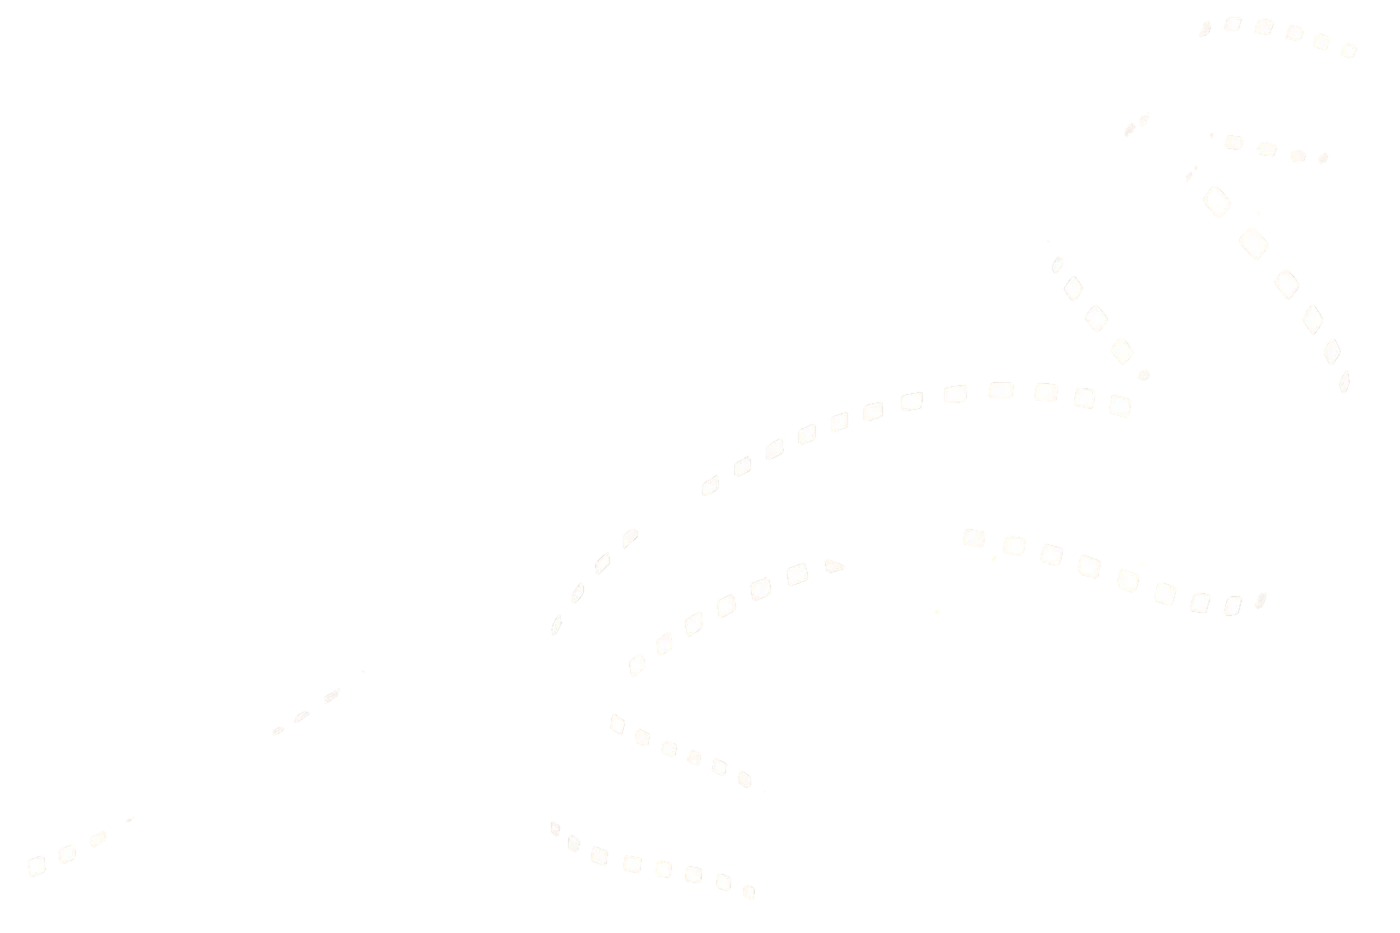
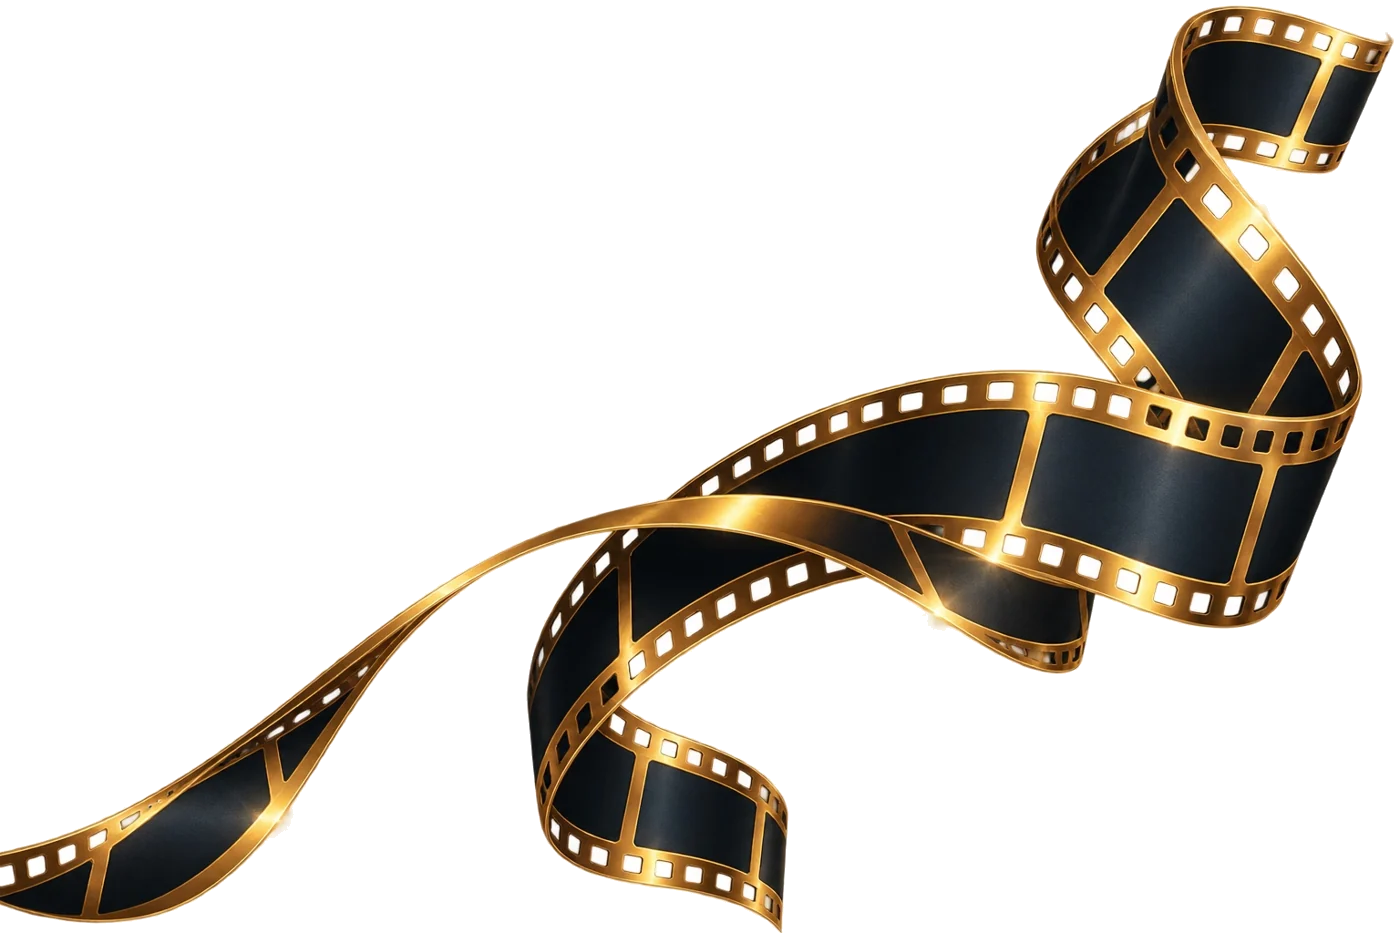
Add files via upload

Changed region(s): [[0.3686, 0.0, 1.0, 1.0], [0.0, 0.5906, 0.3686, 0.9946]]

diff --git a/index.html b/index.html
@@ -1,19 +1,42 @@
-<!doctype html><html lang="es"><head><meta charset="utf-8"><meta name="viewport" content="width=device-width,initial-scale=1"><title>AZAIRUS 2026 · Una noche de película</title><style>
-:root{--blue:#0b1929;--gold:#c99c49;--cream:#f7eddb}*{box-sizing:border-box}body{margin:0;background:var(--blue);font-family:Georgia,serif;color:var(--cream);text-align:center}main{max-width:680px;margin:auto;box-shadow:0 0 50px #0006}section{position:relative;overflow:hidden;padding:75px 25px;min-height:540px;background:var(--blue)}section.cream{background:radial-gradient(ellipse,#fff8e9,#ecddbd);color:var(--blue)}.ornament{width:80%;max-width:360px;display:block;margin:20px auto}.ribbon{position:absolute;width:220px;right:-90px;top:-50px;transform:rotate(25deg);pointer-events:none}.ribbon.bottom{top:auto;bottom:-70px;right:auto;left:-85px;transform:rotate(-20deg)}h1,h2{font-weight:normal;letter-spacing:.07em;margin:15px auto}h1{font-size:clamp(36px,8vw,62px)}h2{font-size:clamp(32px,7vw,52px)}.script{font-style:italic;font-size:clamp(38px,9vw,72px);color:var(--gold);letter-spacing:-.04em;margin:4px auto 15px}.kicker{font-size:13px;letter-spacing:.28em;text-transform:uppercase;color:var(--gold)}p{line-height:1.7;font-size:17px;max-width:440px;margin:18px auto}.gold{color:var(--gold)}.line{height:1px;width:65%;background:linear-gradient(90deg,transparent,var(--gold),transparent);margin:24px auto}.btn{display:inline-block;margin:20px auto;padding:15px 25px;border-radius:28px;background:var(--gold);color:var(--blue);font:600 13px Arial,sans-serif;letter-spacing:.09em;text-decoration:none}.cream .btn{background:var(--blue);color:var(--cream)}.photo{width:90%;max-width:370px;height:auto;display:block;margin:25px auto}.star{font-size:30px;color:var(--gold)}.small{font-size:13px}.info{background:#f3e4c8;color:var(--blue);border:2px solid var(--gold);padding:20px;max-width:440px;margin:25px auto}.info p{font-size:15px}.count{display:grid;grid-template-columns:repeat(4,1fr);gap:6px;max-width:440px;margin:30px auto}.count div{border:1px solid var(--gold);padding:15px 3px}.count strong{font-size:clamp(25px,7vw,42px);display:block}.count small{font:11px Arial,sans-serif}.music{position:fixed;right:15px;bottom:15px;border:1px solid var(--gold);background:var(--blue);color:var(--cream);border-radius:30px;padding:13px;font-size:12px;z-index:5}footer{padding:30px;font-size:12px;color:var(--gold)}
-</style></head><body><main>
-<section><img class="ribbon" src="assets/cinta.png" alt=""><p class="kicker">Kairos 2027 presenta</p><img class="photo" src="assets/sobre.png" alt="Invitación de gala"><div class="star">✦</div><h1>Una noche de película</h1><p>Una última escena. Un recuerdo para siempre.</p><p class="gold">21 · 11 · 2026 &nbsp; | &nbsp; 6:00 P. M.</p><p>Salón de actos · Colegio Nuestra Señora de Bethlem</p></section>
-<section class="cream"><img class="ribbon bottom" src="assets/cinta.png" alt=""><p class="kicker">Esta vez ustedes son los protagonistas</p><h2>Toda gran historia merece un buen final</h2><div class="line"></div><p><b>KAIROS 2027</b> tiene el honor de invitar a <b>AZAIRUS 2026</b> al cierre de una etapa que siempre recordarán.</p><div class="star">✦ ✧ ✦</div></section>
-<section class="cream"><p class="kicker">Acceso exclusivo</p><h2>Tu entrada</h2><div class="script">al estreno</div><div class="line"></div><p>El final de una gran historia está por comenzar. Prepárate para una noche llena de recuerdos, elegancia y momentos inolvidables.</p><a class="btn" href="https://canva.link/yrpid3lwp5zv61x" target="_blank" rel="noopener noreferrer">VER MI ENTRADA ↗</a><img class="ribbon bottom" src="assets/cinta.png" alt=""></section>
-<section><p class="kicker">Una noche para brillar</p><img class="photo" src="assets/alfombra.png" alt="Alfombra roja de gala"><h2>DRESS LIKE</h2><div class="script">a Star</div><div class="line"></div><p>El estilo de Hollywood antiguo cobra vida una vez más. Vístete para tu última gran función y sé parte de la alfombra roja que KAIROS 2027 le tiene preparada a AZAIRUS 2026.</p><a class="btn" href="https://canva.link/937kzkd6kw4zmdm" target="_blank" rel="noopener noreferrer">DESCUBRE EL DRESS CODE ↗</a></section>
-<section><img class="ribbon" src="assets/cinta.png" alt=""><p class="kicker">Te esperamos en el escenario final</p><h2>UBICACIÓN</h2><div class="line"></div><img class="photo" src="assets/cine.png" alt="Cine decorado para AZAIRUS 2026"><p>Colegio Nuestra Señora de Bethlem<br>Salón de actos · 6:00 P. M.</p><a class="btn" href="https://www.google.com/maps/place/Colegio+Nuestra+Se%C3%B1ora+de+Bethlem/@9.1005841,-79.5482024,17z/data=!3m1!4b1!4m6!3m5!1s0x8fab5769109e78c7:0x3eb9ec064f048892!8m2!3d9.1005788!4d-79.5456275!16s%2Fg%2F1w0sdy8h?entry=ttu" target="_blank" rel="noopener noreferrer">VER MAPA ↗</a></section>
-<section class="cream"><p class="kicker">Antes de comenzar la función</p><h2>INDICACIONES IMPORTANTES</h2><div class="info"><p><b>✦ NO ACOMPAÑANTES</b><br>Evento exclusivo para AZAIRUS 2026.</p><p><b>✦ LLEGADA PUNTUAL</b><br>Te esperamos a la hora indicada.</p><p><b>✦ MOMENTOS ESPECIALES</b><br>Habrá cobertura fotográfica y de video.</p><p><b>✦ DISFRUTA LA NOCHE</b><br>Ven con la mejor actitud y forma parte de este gran final.</p></div></section>
-<section class="cream"><img class="ribbon bottom" src="assets/cinta.png" alt=""><p class="kicker">Every great story deserves a</p><div class="script">Grand Finale</div><div class="line"></div><p>GRACIAS POR SER PARTE DE ESTA HISTORIA</p><div class="count"><div><strong id="d">--</strong><small>DÍAS</small></div><div><strong id="h">--</strong><small>HORAS</small></div><div><strong id="m">--</strong><small>MIN</small></div><div><strong id="s">--</strong><small>SEG</small></div></div><p>Una última noche. Miles de recuerdos.</p><p><b>KAIROS 2027 × AZAIRUS 2026</b></p></section>
-<footer>✦ TODA GRAN HISTORIA MERECE UN BUEN FINAL ✦</footer></main><button class="music" id="musicButton" type="button" aria-label="Activar música instrumental">♫ Activar música</button>
-<script>function updateCountdown(){const target=Date.parse('2026-11-21T18:00:00-05:00');let n=Math.max(0,Math.floor((target-Date.now())/1000));const d=Math.floor(n/86400);n%=86400;const h=Math.floor(n/3600);n%=3600;const m=Math.floor(n/60);const s=n%60;for(const [id,v] of [['d',d],['h',h],['m',m],['s',s]])document.getElementById(id).textContent=String(v).padStart(2,'0')}updateCountdown();setInterval(updateCountdown,1000);</script>
+<!doctype html><html lang="es"><head><meta charset="utf-8"><meta name="viewport" content="width=device-width,initial-scale=1"><meta name="theme-color" content="#0b1929"><meta name="description" content="KAIROS 2027 invita a AZAIRUS 2026 a una noche de película. 21 de noviembre, 6:00 p. m."><title>Una noche de película · AZAIRUS 2026</title><link rel="preconnect" href="https://fonts.googleapis.com"><link rel="preconnect" href="https://fonts.gstatic.com" crossorigin><link href="https://fonts.googleapis.com/css2?family=Cormorant+Garamond:wght@400;500;600;700&family=Great+Vibes&family=Montserrat:wght@400;500;600;700&display=swap" rel="stylesheet"><style>
+:root{--navy:#0b1929;--gold:#d9b56a;--cream:#f5e8d0}*{box-sizing:border-box}html{scroll-behavior:smooth}body{margin:0;background:var(--navy);color:var(--cream);font-family:Montserrat,Arial,sans-serif;overflow-x:hidden}body:before{content:"";position:fixed;inset:0;pointer-events:none;background:radial-gradient(ellipse at 50% 0%,#24406677,transparent 65%);z-index:-1}.container{max-width:520px;margin:auto;padding:0 22px}.hero{min-height:100svh;display:flex;flex-direction:column;justify-content:center;align-items:center;position:relative;background:linear-gradient(180deg,#0b1929,#172941 60%,#0b1929);padding:22px 18px 44px}.eyebrow{font-size:10px;letter-spacing:.32em;color:var(--gold);text-transform:uppercase;text-align:center}.hero img{width:min(100%,440px);max-height:72svh;object-fit:contain;filter:drop-shadow(0 14px 30px #0007);animation:appear 1.6s ease both}.hero .eyebrow{margin-bottom:15px}.scrollhint{font-size:10px;letter-spacing:.18em;text-transform:uppercase;color:#decda8;text-align:center;animation:bob 2s infinite}.section{position:relative;min-height:74svh;display:flex;flex-direction:column;align-items:center;justify-content:center;text-align:center;padding:76px 22px;overflow:hidden}.section:nth-of-type(2n){background:linear-gradient(145deg,#0c1b2d,#152943,#0c1b2d)}.section .inner{max-width:480px;width:100%;position:relative;z-index:2}.kicker{font-size:10px;letter-spacing:.32em;color:var(--gold);text-transform:uppercase;margin:12px 0 20px}h1,h2,h3{font-family:'Cormorant Garamond',Georgia,serif;font-weight:500;margin:0}h1{font-size:clamp(43px,11vw,74px);line-height:.98}h2{font-size:clamp(39px,10vw,62px);line-height:1.03}h3{font-size:33px}p{font-size:13px;line-height:1.95;color:#e8dcca}.gold{color:var(--gold)}.script{font-family:'Great Vibes',cursive;font-size:clamp(48px,12vw,75px);color:#e6c27b;line-height:1.15}.rule{display:flex;align-items:center;gap:12px;color:var(--gold);justify-content:center;margin:22px auto;width:80%}.rule:before,.rule:after{content:"";height:1px;background:linear-gradient(90deg,transparent,#e4bc70);flex:1}.rule:after{transform:rotate(180deg)}.btn{display:inline-block;cursor:pointer;text-decoration:none;background:linear-gradient(135deg,#f3db9a,#c39a4e,#f3db9a);color:#0b1929;padding:17px 24px;border-radius:3px;border:1px solid #f7df9d;font-size:11px;font-weight:700;letter-spacing:.12em;text-transform:uppercase;box-shadow:0 6px 25px #0004;margin:16px auto;transition:transform .25s}.btn:hover{transform:translateY(-3px)}.btn.secondary{background:transparent;color:#e6c27b;border:1px solid #b89559}.date{display:flex;gap:16px;justify-content:center;align-items:center;margin:27px auto}.date .day{font-family:'Cormorant Garamond',serif;font-size:84px;line-height:1;color:#ebce90}.date .details{text-align:left;font-size:12px;line-height:2;text-transform:uppercase;letter-spacing:.16em}.photo{width:100%;max-width:370px;object-fit:contain;display:block;margin:18px auto;filter:drop-shadow(0 8px 18px #0005)}.photo.cinema{max-width:300px}.dec{position:absolute;pointer-events:none;opacity:.65;max-width:180px}.dec.right{right:-85px;top:5%;width:210px}.dec.left{left:-85px;bottom:5%;width:170px;transform:scaleX(-1)}.fade{opacity:0;transform:translateY(32px);transition:opacity .9s ease,transform .9s ease}.fade.visible{opacity:1;transform:translateY(0)}.card{border:1px solid #b9976077;background:#f2e2c6;color:#16233a;padding:32px 24px;box-shadow:0 18px 40px #0005}.card p{color:#17253b}.card h2{color:#0b1929}.info{display:grid;gap:17px;text-align:left;margin:28px auto;max-width:350px}.info-item{border-bottom:1px solid #b9976055;padding-bottom:14px}.info-item strong{display:block;color:#14213b;font-family:'Cormorant Garamond',serif;font-size:24px}.info-item span{font-size:12px;line-height:1.7;display:block;color:#29364b}.countdown{display:grid;grid-template-columns:repeat(4,1fr);gap:7px;margin:26px auto}.countdown div{border:1px solid #c4a26666;padding:14px 2px;background:#ffffff08}.countdown strong{display:block;font-family:'Cormorant Garamond',serif;font-size:35px;color:#f2d18d}.countdown span{font-size:9px;letter-spacing:.09em;text-transform:uppercase;color:#d8c7a7}.footer{font-size:10px;letter-spacing:.14em;color:#d0b67c;padding:24px;text-align:center}.music{position:fixed;bottom:18px;right:16px;z-index:20;border:1px solid #d8b56b;background:#10253de8;color:#f4d89e;padding:12px;border-radius:50%;font-size:19px;cursor:pointer}.hero .tap{border:1px solid #caa65d;background:#12253dbb;color:#f4d89e;border-radius:30px;padding:12px 18px;letter-spacing:.12em;font-size:10px;cursor:pointer}.intro{position:fixed;inset:0;z-index:50;background:#0b1929;display:flex;align-items:center;justify-content:center;flex-direction:column;padding:20px;transition:opacity .8s,visibility .8s}.intro.hidden{opacity:0;visibility:hidden}.intro img{width:min(86vw,360px);max-height:68vh;object-fit:contain;animation:appear 1.3s both}.intro p{color:#d4b575;text-transform:uppercase;letter-spacing:.2em;font-size:10px}.intro button{margin-top:10px}.star{color:#d4ae67;font-size:22px}.note{font-size:11px;color:#bba986}.orn{width:120px;max-width:35%;opacity:.9;margin:20px auto}.mini{width:100%;max-width:370px;max-height:170px;object-fit:contain;margin:20px auto}.dressimg{max-width:330px;width:100%;mix-blend-mode:screen;filter:contrast(1.1)}@keyframes appear{from{opacity:0;transform:scale(.94) translateY(16px)}to{opacity:1;transform:scale(1) translateY(0)}}@keyframes bob{50%{transform:translateY(8px)}}@media(prefers-reduced-motion:reduce){.fade{opacity:1;transform:none}.hero img,.scrollhint,.intro img{animation:none}html{scroll-behavior:auto}}@media(max-width:390px){.section{padding:65px 17px}.date .day{font-size:65px}.date{gap:10px}.countdown strong{font-size:29px}}
+
+/* Details tailored to the original navy / antique gold artwork */
+.hero{background:linear-gradient(180deg,#0b1929,#162942 65%,#0b1929)}
+.hero img{max-height:79svh;width:min(94vw,490px)}
+.intro img{max-height:74vh;width:min(90vw,390px)}
+.section{border-top:1px solid #caa45b28}
+.section .inner{z-index:3}
+.section:after{content:'✧';position:absolute;right:9%;top:12%;font-size:30px;color:#e5bc6e;opacity:.7;animation:twinkle 3s ease-in-out infinite;pointer-events:none}
+.deco-edge{position:absolute;pointer-events:none;z-index:1;width:min(90%,480px);max-height:210px;object-fit:contain;opacity:.8}
+.deco-top{top:-65px;left:-13%;transform:rotate(-8deg)}
+.deco-bottom{bottom:-75px;right:-24%;transform:rotate(8deg)}
+.polaroid-small{width:clamp(135px,42vw,215px);max-height:175px;object-fit:contain;display:block;margin:0 auto 12px;transform:rotate(-6deg);filter:drop-shadow(0 9px 12px #0009)}
+.music{display:flex;align-items:center;gap:7px;border-radius:28px;font-size:17px;bottom:15px;right:12px;padding:11px 14px}
+.music span{font-size:10px;letter-spacing:.04em}
+@keyframes twinkle{50%{opacity:.15;transform:scale(.72)}}
+</style></head><body>
+<div class="intro" id="intro"><p>Una invitación especial para</p><img src="assets/portada_original.jpg" alt="Sobre con invitación de AZAIRUS 2026"><button class="tap" id="openInvite">✦ &nbsp; ABRIR INVITACIÓN &nbsp; ✦</button></div>
+<header class="hero"><div class="eyebrow">KAIROS 2027 · TIENE EL HONOR DE INVITAR</div><img src="assets/portada_original.jpg" alt="Invitación de despedida de AZAIRUS 2026"><div class="scrollhint">Desliza para descubrir<br>⌄</div></header>
+<main>
+<section class="section"><img class="deco-edge deco-top" src="assets/arco.png" alt=""><img class="dec right" src="assets/lateral.png" alt=""><div class="inner fade"><div class="kicker">Una noche de película</div><img class="polaroid-small" src="assets/polaroid.png" alt="Fotografía de recuerdos de AZAIRUS 2026"><h2>Toda gran historia<br><em class="gold">merece un buen final</em></h2><div class="rule">✦</div><p>Hay historias que merecen una despedida inolvidable. Esta vez, ustedes son los protagonistas de una última gran función.</p><div class="script">AZAIRUS 2026</div><p>Con cariño, <strong>KAIROS 2027</strong></p></div></section>
+<section class="section"><img class="deco-edge deco-top" src="assets/cinta.png" alt=""><div class="inner fade"><div class="kicker">La función está por comenzar</div><img class="photo cinema" src="assets/cine.webp" alt="Fachada de cine AZAIRUS 2026"><h2>Una noche para <em class="gold">brillar</em></h2><div class="date"><div class="day">21</div><div class="details">Noviembre 2026<br>Sábado<br>6:00 p. m.</div></div><p>Una velada para celebrar los recuerdos, las amistades y todo lo que está por venir.</p></div></section>
+<section class="section"><img class="deco-edge deco-bottom" src="assets/decoracion.png" alt=""><img class="dec left" src="assets/lateral.png" alt=""><div class="inner fade"><div class="kicker">Acceso exclusivo</div><h2>Tu entrada</h2><div class="script">al estreno</div><div class="rule">✦</div><p>El final de una gran historia está por comenzar. Prepárate para una noche llena de recuerdos, elegancia y momentos inolvidables.</p><a class="btn" href="https://canva.link/yrpid3lwp5zv61x" target="_blank" rel="noopener noreferrer">✦ Ver mi entrada</a><p class="note">Se abrirá tu entrada digital en Canva</p></div></section>
+<section class="section"><img class="deco-edge deco-top" src="assets/arco.png" alt=""><div class="inner fade"><div class="kicker">La alfombra roja te espera</div><img class="photo" src="assets/alfombra.webp" alt="Alfombra roja y entrada cinematográfica"><h2>Dress like</h2><div class="script">a Star</div><div class="rule">✦</div><p>El estilo de Hollywood antiguo cobra vida una vez más. Vístete para tu última gran función y sé parte de la alfombra roja que KAIROS 2027 le tiene preparada a AZAIRUS 2026.</p><a class="btn" href="https://canva.link/937kzkd6kw4zmdm" target="_blank" rel="noopener noreferrer">✦ Descubre el dress code</a></div></section>
+<section class="section"><img class="deco-edge deco-bottom" src="assets/cinta.png" alt=""><div class="inner fade"><div class="kicker">El escenario final</div><h2>Ubicación</h2><div class="rule">✦</div><p>Te esperamos en el escenario final</p><div class="card"><div class="star">✦</div><h3>Colegio Nuestra Señora de Bethlem</h3><p>21 de noviembre de 2026<br><strong>6:00 p. m.</strong></p><a class="btn" href="https://www.google.com/maps/place/Colegio+Nuestra+Se%C3%B1ora+de+Bethlem/@9.1005841,-79.5482024,17z/data=!3m1!4b1!4m6!3m5!1s0x8fab5769109e78c7:0x3eb9ec064f048892!8m2!3d9.1005788!4d-79.5456275!16s%2Fg%2F1w0sdy8h?entry=ttu" target="_blank" rel="noopener noreferrer">Ver ubicación en Maps ↗</a></div></div></section>
+<section class="section"><img class="deco-edge deco-top" src="assets/arco.png" alt=""><div class="inner fade"><div class="kicker">Antes del estreno</div><h2>Indicaciones <em class="gold">importantes</em></h2><div class="rule">✦</div><div class="card"><div class="info"><div class="info-item"><strong>01 · No acompañantes</strong><span>Evento exclusivo para AZAIRUS 2026.</span></div><div class="info-item"><strong>02 · Llegada puntual</strong><span>Te esperamos a la hora indicada para disfrutar de una noche inolvidable.</span></div><div class="info-item"><strong>03 · Momentos especiales</strong><span>Habrá cobertura fotográfica y de video durante el evento.</span></div><div class="info-item"><strong>04 · Disfruta la noche</strong><span>Ven con la mejor actitud y forma parte de este gran final.</span></div></div></div></div></section>
+<section class="section"><img class="deco-edge deco-bottom" src="assets/decoracion.png" alt=""><div class="inner fade"><div class="kicker">El gran estreno se acerca</div><h2>La cuenta regresiva</h2><div class="rule">✦</div><div class="countdown"><div><strong id="days">--</strong><span>Días</span></div><div><strong id="hours">--</strong><span>Horas</span></div><div><strong id="minutes">--</strong><span>Minutos</span></div><div><strong id="seconds">--</strong><span>Segundos</span></div></div><p>Una última noche. Miles de recuerdos.<br>Una historia que siempre será nuestra.</p><div class="script">Esta vez ustedes son<br>los protagonistas.</div><p class="gold">KAIROS 2027 × AZAIRUS 2026</p></div></section>
+</main><footer class="footer">✦ &nbsp; TODA GRAN HISTORIA MERECE UN BUEN FINAL &nbsp; ✦</footer>
+<button class="music" id="musicButton" type="button" aria-label="Activar música instrumental" title="Activar o detener música">♫ <span id="musicLabel">Música</span></button>
 <script>
-// Melodía instrumental sencilla, sintetizada localmente; no descarga audio.
-let musicContext=null, musicTimer=null, musicIndex=0;
-const melody=[392,440,523.25,440,392,329.63,349.23,392,329.63,293.66,329.63,392,349.23,329.63,293.66,261.63];
-function playNote(){if(!musicContext)return;const osc=musicContext.createOscillator();const gain=musicContext.createGain();osc.type='sine';osc.frequency.value=melody[musicIndex++%melody.length];gain.gain.setValueAtTime(0.0001,musicContext.currentTime);gain.gain.exponentialRampToValueAtTime(0.045,musicContext.currentTime+0.04);gain.gain.exponentialRampToValueAtTime(0.0001,musicContext.currentTime+0.47);osc.connect(gain);gain.connect(musicContext.destination);osc.start();osc.stop(musicContext.currentTime+0.5)}
-document.getElementById('musicButton').addEventListener('click',async function(){if(musicTimer){clearInterval(musicTimer);musicTimer=null;this.textContent='♫ Activar música';return;}const AudioContextClass=window.AudioContext||window.webkitAudioContext;if(!AudioContextClass){this.textContent='Música no disponible';return;}musicContext=musicContext||new AudioContextClass();await musicContext.resume();playNote();musicTimer=setInterval(playNote,560);this.textContent='♫ Pausar música';});
+document.getElementById('openInvite').addEventListener('click',()=>{document.getElementById('intro').classList.add('hidden');window.scrollTo({top:0,behavior:'instant'})});
+const observer=new IntersectionObserver((entries)=>{entries.forEach(e=>{if(e.isIntersecting){e.target.classList.add('visible');observer.unobserve(e.target)}})},{threshold:.12});document.querySelectorAll('.fade').forEach(el=>observer.observe(el));
+const target=new Date('2026-11-21T18:00:00-05:00').getTime();function tick(){let diff=Math.max(0,target-Date.now());const values=[Math.floor(diff/86400000),Math.floor(diff/3600000)%24,Math.floor(diff/60000)%60,Math.floor(diff/1000)%60];['days','hours','minutes','seconds'].forEach((id,i)=>document.getElementById(id).textContent=String(values[i]).padStart(2,'0'))}tick();setInterval(tick,1000);
+
+// Short, original synthesized cinematic instrumental; starts only after a tap.
+let audioCtx=null, playing=false, musicTimer=null, notesPlayed=0;
+const melody=[0,4,7,12,7,4,2,5,9,12,9,5,0,4,7,11,7,4,-2,2,5,9,5,2];
+function note(freq,when,duration,volume){const osc=audioCtx.createOscillator(),gain=audioCtx.createGain();osc.type='sine';osc.frequency.value=freq;gain.gain.setValueAtTime(0.0001,when);gain.gain.exponentialRampToValueAtTime(volume,when+.08);gain.gain.exponentialRampToValueAtTime(.0001,when+duration);osc.connect(gain).connect(audioCtx.destination);osc.start(when);osc.stop(when+duration+.05)}
+function playPhrase(){if(!playing||!audioCtx)return;let t=audioCtx.currentTime+.04;for(let i=0;i<8;i++){const semitone=melody[(notesPlayed+i)%melody.length];note(261.63*Math.pow(2,semitone/12),t+i*.48,.85,.032);if(i%4===0)note(130.81*Math.pow(2,Math.floor(semitone/12)),t+i*.48,1.7,.017)}notesPlayed+=8;musicTimer=setTimeout(playPhrase,3800)}
+document.getElementById('musicButton').addEventListener('click',async()=>{if(playing){playing=false;clearTimeout(musicTimer);if(audioCtx){await audioCtx.close();audioCtx=null}document.getElementById('musicLabel').textContent='Música';return}try{audioCtx=new (window.AudioContext||window.webkitAudioContext)();await audioCtx.resume();playing=true;document.getElementById('musicLabel').textContent='Pausar';playPhrase()}catch(e){document.getElementById('musicLabel').textContent='No disponible'}});
 </script></body></html>
